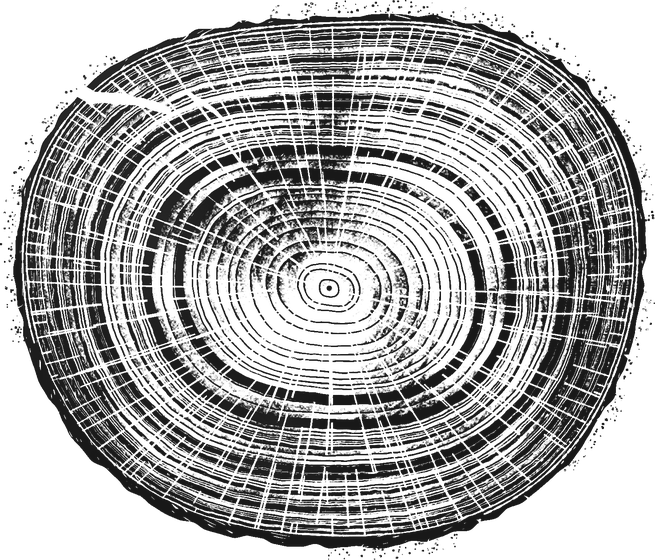
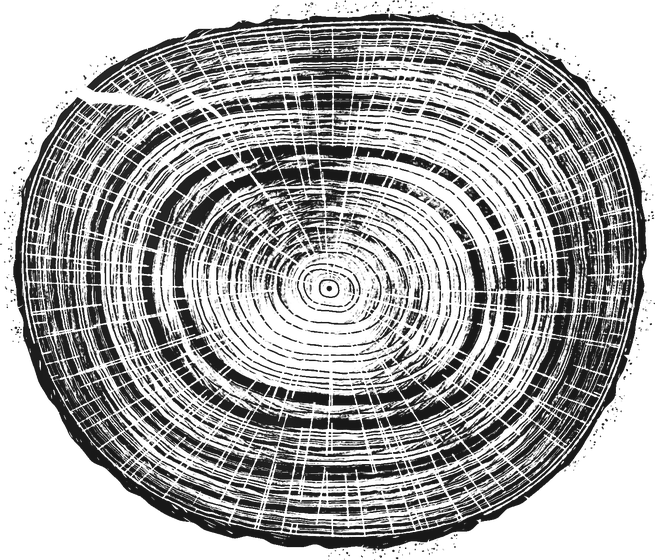
Sharp up close: full-resolution print, fine grain that resolves with zoom, finer ragged rays
Claude-Session: https://claude.ai/code/session_01WhGxUDQ2nhT1B8pKnZrdq5

diff --git a/src/rings/press.ts b/src/rings/press.ts
@@ -1697,8 +1697,8 @@ function drawPrint(v: View): void {
     for (let q = 0; q < count * 1.6; q++) {
       const a = h1(q * 0.917 + tree.seed * 0.01) * TAU;
       if (noise(tree.seed * 0.021 + (a / TAU) * 14) < 0.4) continue;
-      const out = T + (1 + 7 * h1(q * 2.31) ** 1.6) * px * Z, [x, y] = pt(a, bark(a), out), d = (0.35 + 0.5 * h1(q * 5.7)) * px * Z;
-      g.moveTo(x + d, y); g.arc(x, y, d, 0, TAU);
+      const out = T + (1 + 7 * h1(q * 2.31) ** 1.6) * px * Z, [x, y] = pt(a, bark(a), out), d = (0.35 + 0.5 * h1(q * 5.7)) * px * Math.sqrt(Z);
+      g.moveTo(x + d, y); g.ellipse(x, y, d, d * (0.45 + 0.5 * h1(q * 8.9)), h1(q * 3.3) * TAU, 0, TAU);
     }
     g.fill();
   }
@@ -1814,7 +1814,7 @@ function rayAt(a: number, rho: number): number {
     // (Where it lies: its birth place, a little off even, wandering slowly outward.)
     const at = ((bk + 0.5 + (h1(id) - 0.5) * 0.5) / nb + (Math.sin(rho / (40 + 30 * h1(id * 2.3)) + id) * 0.25) / nb) * N;
     let dd = Math.abs(sAt - at); dd = Math.min(dd, N - dd);
-    const dist = (dd * TAU * rho) / N, half = 0.12 + 0.22 * h1(id * 3.7) ** 2;
+    const dist = (dd * TAU * rho) / N + (vnoise(rho * 0.9 + id, id * 0.13) - 0.5) * 0.35, half = 0.07 + 0.16 * h1(id * 3.7) ** 2;
     if (dist > half + 0.6) continue;
     if (vnoise(id * 0.37, rho / 14) < 0.3) continue;
     best = Math.max(best, Math.min(1, smooth(1 - (dist - half) / 0.6)) * Math.min(1, (rho - born) / 3));
@@ -1890,7 +1890,10 @@ function printYears(v: View, oak: Years | null): void {
     // (Its edge: a line a pixel or so wide at the slice's own size, darker than the latewood.)
     if (!heart && width > 0) ink = Math.max(ink, A.edge * smooth((across - (1 - (1.3 * U) / width)) / Math.max(1e-3, (0.8 * U) / width)));
     // The real fibre, streaking along the year.
-    if (fib && A.fibre) ink *= 1 + A.fibre * (tile(fib, a * rho * 0.5, rho * 0.5) - 0.5) * 2;
+    if (fib && A.fibre) ink *= 1 + A.fibre * 0.45 * (tile(fib, a * rho * 0.5, rho * 0.5) - 0.5) * 2;
+    // (And the wood's own fine grain, finer than the scan holds: long thin streaks along the year, in the wood's
+    // place, too fine to see whole and showing as it's looked into, so looking closer finds more, never a blur.)
+    ink *= 1 + 0.5 * (vnoise(rho * 1.6 + i * 5.3, a * rho * 0.09) - 0.5) * 2 * (0.5 + 0.5 * vnoise(rho * 0.25, a * rho * 0.03 + 9.1));
     if (A.mottle) ink *= 1 + A.mottle * (vnoise(dx / (22 * U) + 3.1, dy / (22 * U) + 7.7) - 0.5) * 2;
     // Pores: open vessels, paper in the print, scattered (or gathered at the year's start), in the wood's place.
     if (A.pores) {
@@ -2087,7 +2090,7 @@ const printCaches: Record<string, { c: HTMLCanvasElement; key: string; v: View; 
 const MARGIN = 1.5;
 /** How long each pressing took (ms), for looking into the app's pace. */
 const presses: number[] = [];
-const QUALITY = () => Math.min(1, 2 / Math.max(1, px));
+const QUALITY = () => Math.min(1, 3 / Math.max(1, px));
 type Kept = { c: HTMLCanvasElement; key: string; v: View; at: number };
 function placeOf(pc: { v: View }, v: View, grow = 1): [number, number, number, number] {
   const k = (v.s / pc.v.s) * grow, x0 = (-W * (MARGIN - 1)) / 2, y0 = (-H * (MARGIN - 1)) / 2;
@@ -2236,7 +2239,7 @@ function pressSlowly(slot: string, v: View, key: string, follow = true, budget =
   }
   // (Strips of the one height, as many a frame as fit in some eight milliseconds, one at least: on an older
   // phone a frame a little slow while it's pressed, never a stall.)
-  const t = performance.now(), rows = Math.ceil(40 * QUALITY() * px / 2);
+  const t = performance.now(), rows = Math.max(12, Math.ceil(16 * QUALITY() * px / 2));
   while (job.row < job.end && performance.now() - t < budget) {
     // (Across a knot or burl, a deeper strip, so its margin is pressed fewer times over.)
     const pl = job.pulled, deep = pl && job.row + rows > pl[0] && job.row < pl[1] ? Math.max(rows, 3 * pl[2]) : rows;

diff --git a/RINGS-HISTORY.md b/RINGS-HISTORY.md
@@ -170,3 +170,5 @@ Still to come (`trees.ts`): a redwood with fires, a bristlecone with drought, a 
 **Rays and solid ink, as a real print has** (since October 17). Every wood now prints its rays (`rayAt`): hairline radial lines open to the paper, a few from the heart and new ones beginning between them as the wood widens, so they keep about the same distance apart all the way out, each wandering a little and breaking now and then; plainest in oak (its latewood a run of small bricks), faint in the conifers (`RAYS`). And the ink is laid more solidly: the press's starving of it held back, so the black is black, broken only by small flecks, its edges crisp.
 
 **Cracks from the heart, and stepped** (since October 17). An old slice now splits from the heart too: from about its ninetieth year, two to four cracks open out from the pith, parting it into wedges. And a crack, from the bark or the heart, now and then runs a short way along a year's edge before going on, as wood parts along its rings as readily as across them: a step. Each crack is stroked a piece at a time, as wide as it is there, so it turns without a seam.
+
+**Sharp up close** (since October 17). Looked into, the print was soft: pressed at two device pixels to a CSS px and shown on a phone's three, so stretched by half; the drawn woods' fibre, from an old scan, magnified into diagonal smears; the rays and the edge's specks sized with the wood, so thick. Now the print is pressed at the screen's own resolution (`QUALITY`, the strips smaller so a frame's share stays small); the scan's fibre is used lightly, under a finer grain of the wood's own that only shows as it's looked into, so closer finds more, never a blur; the rays are finer, their edges ragged; the specks grow less, and aren't round.
